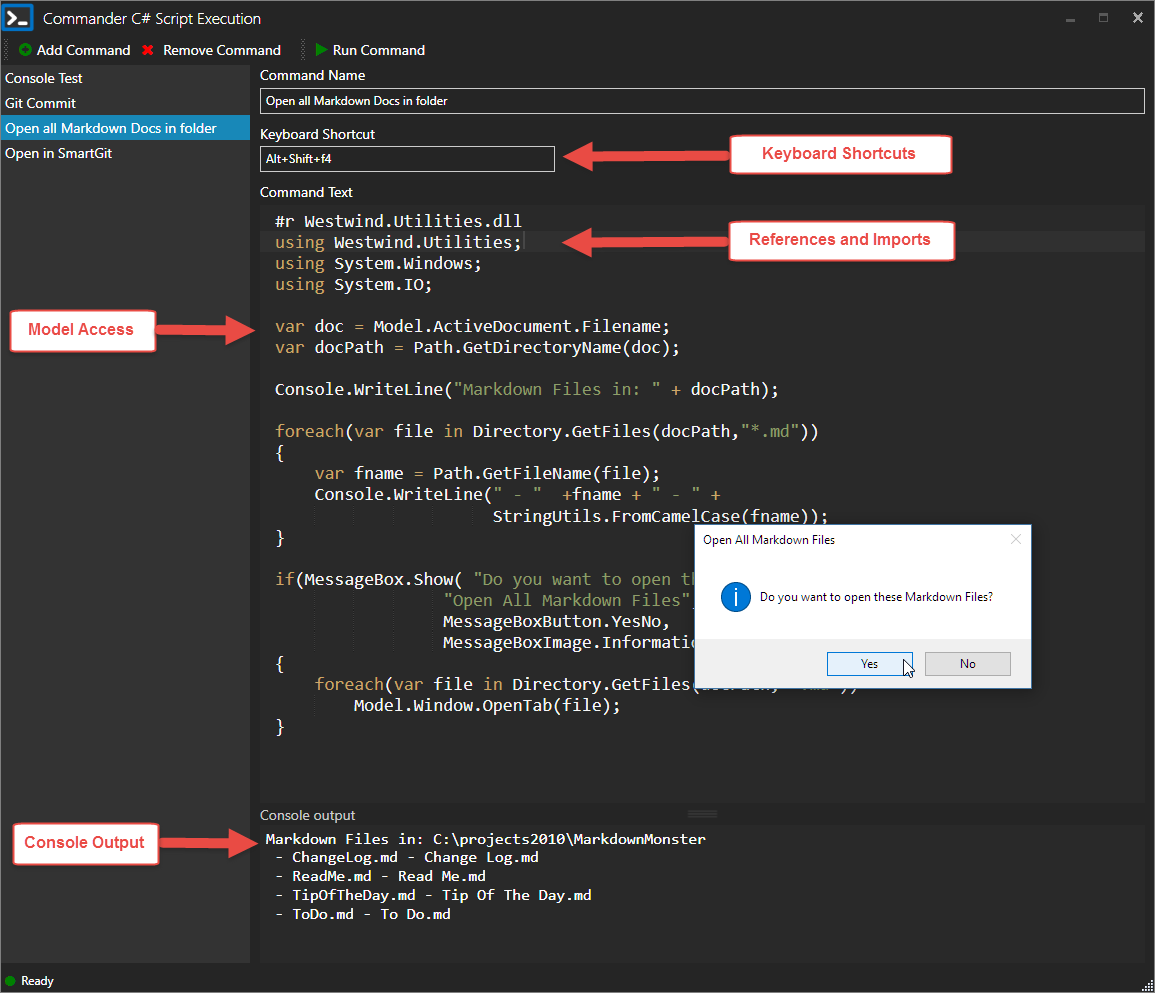
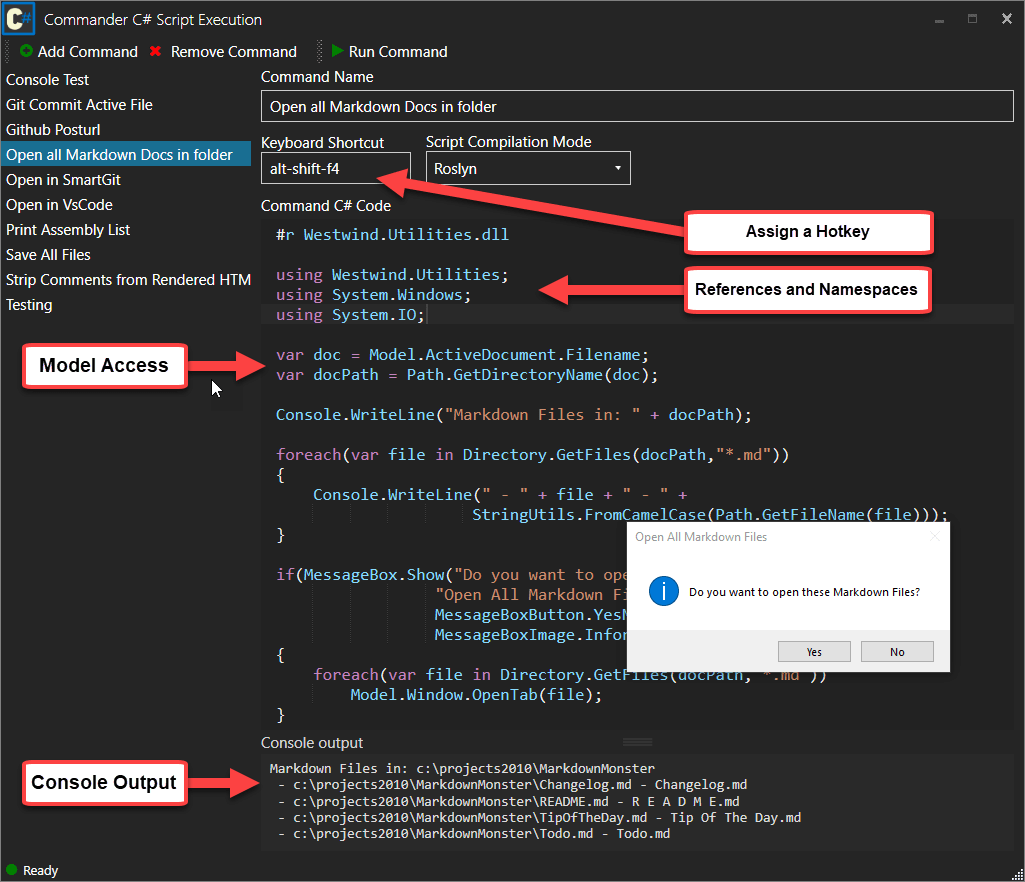
Update README.md

diff --git a/readme.md b/readme.md
@@ -4,36 +4,99 @@
 
 <img src="icon.png" Height="128"  />
 
-> #### Currently in Beta release 
+This addin allows you to script Markdown Monster via C# script code. It's an easy way to add quick automation features to Markdown Monster without creating a [full blown Markdown Monster .NET Addin](http://markdownmonster.west-wind.com/docs/_4ne0s0qoi.htm).
 
-This addin lets you extend Markdown Monster via custom C# scripts or by easily calling external executables that can be tied to a hotkey or can be executed via the Commander addin's user interface. Commander scripts can be thought of as mini addins that can be created without requiring the creation of a full blown addin using small snippets of C# Script code.
+![](CommanderAddin/screenshot.png)
+
+Some things you can do:
+
+* Access the current document
+* Modify the active or any other open document
+* Launch a new process 
+* Open documents or folders in an external Program
+* Load data from a database and embed it in a document
+* Open a Git Client in the right folder context
+* Open all related documents
+* Launch an image optimizer to optimize all images
+* Create pre-filled documents into the editor  
+(which you can also do with the [Snippets addin]())
+* etc.
+
+Using the Command Addin you can access the [Markdown Monster Application Model](http://markdownmonster.west-wind.com/docs/_5dv018sft.htm) (via `Model.AppModel`) to access many of the core Markdown Document and UI features that let you automate and act upon open or selected documents in the editor.
+
+You can tie a hot key to a script (may require a restart of the application) to make functionality more easily accessible as well.
 
 ### Features
 Commander has the following  useful features:
 
 * C# Scripting - full C# language access
-* Reference and Namespace imports
 * Access to Markdown Monster's Model
     * Access to Document
     * Access to Editor
-    * Access to Window and WPF UI
-* Console Output for Debugging
+    * Access to Main Window and the entire WPF UI
+* Console Output
+* Language Features
+    * Latest C# compiler features
+    * Compilation and Runtime Error reporting
+    * Source Code display
 
-### What can you do with it?
-Heck the sky's the limit, but here are some simple things I've done with it just in the last couple of weeks:
-
-* Open my Git Client in the right folder context
-* Open all related documents
-* Launch an image optimizer to optimize all images
-* Creating pre-filled documents into the editor  
-(which you can also do with the [Snippets addin]())
-* Shell out to any external application using `ExecuteProcess()`
 
 ### C# Script Execution
-Scripts are executed as C# code, using a dynamically generated method inside of an in-memory assembly. You can pretty much execute any .NET code as long as you can reference the required assemblies you need for your code to execute.
+Scripts are executed as C# code that is compiled dynamically as 'in memory' assemblies. The addin caches generated assemblies so that multiple executions don't keep generating new assemblies.
 
-### Assembly Reference and Namespace Dependencies
-In order to execute code, the generated assembly has to explicitly load referenced assemblies. The script parser used in this addin allows for custom syntax at the top of the script to specify assembly references and namespaces as follows:
+You can pretty much execute any .NET code as long as you can reference the required assemblies you need for your code to execute.
+
+#### Script Execution
+Scripts are turned into a C# class that is then compiled into an assembly and executed. Assemblies are created dynamically and cached once generated based on the code snippet's content (plus the compiler mode). If you execute the same script repeatedly, one assembly is generated and used repeatedly. Each new or modified snippet generates a new assembly.
+
+Scripts include default assemblies and namespaces, so most features that are used in Markdown Monster are already in scope and accessible without adding explicit `#r` assembly references or `using` statements.
+
+Scripts execute in the context of a class in the following format:
+
+```cs
+24.  public object ExecuteCode(params object[] parameters)
+25.  {dynamic Model = parameters[0];
+26.  var docFile = Model?.ActiveDocument?.Filedname;
+27.  if(docFile == null)
+28.      return false;
+29.  
+30.  var pf =  Environment.GetEnvironmentVariable("ProgramW6432");
+31.  var folder = Path.Combine(pf,"SmartGit\\bin");
+32.  var exe = Path.Combine(folder,"smartgit.exe");
+33.  
+34.  var pi = Process.Start(exe,"\"" + docFile + "\"");
+35.  if (pi != null)
+36.      Model.Window.ShowStatus("Smartgit started...",5000);
+37.  else
+38.      Model.Window.ShowStatus("Failed to load Smartgit...",5000);
+39.  
+40.  
+42.  return null;  // generated
+43.  }
+```
+
+The method is passed a `CommanderAddinModel` instance which exposes most of the common:
+
+* **[AppModel](http://markdownmonster.west-wind.com/docs/_5dv018sft.htm)**  
+Markdown Monster's Main Application Model that gives access to configuration, window, document, editor, addins and much more. A subset of the properties on this object are exposed in this AddinModel reference for easier access.
+* **[Window](http://markdownmonster.west-wind.com/docs/_5dv018t7x.htm)**  
+The main Markdown Monster UI Window which includes access to open tabs, the folder browser and more.
+* **[ActiveDocument](http://markdownmonster.west-wind.com/docs/_5dv018tmz.htm)**  
+The document in the active tab. Contains the content, filename, load and save operations etc.
+* **[ActiveEditor](http://markdownmonster.west-wind.com/docs/_5dv018twa.htm)**  
+provides access to the active editor instance, for manipulating the document's content in the editor.
+* **Window.FolderBrowser**  
+lets you access the open folder browser or open a new folder in the folder browser.
+
+
+
+> #### Early Exit via `return`
+> If you need to exit the script early using `return` make sure that return some value as the wrapper method signature requires. The code returns `return false` although the return value of the script is irrelevant and ignored. But some value has to be returned.
+>   
+> A return value is **not required** if you don't exit early as the wrapper method has a `return null` at the end.
+
+#### Assembly Reference and Namespace Dependencies
+In order to execute code, the generated assembly has to explicitly load referenced assemblies. The script parser used in this addin allows for custom syntax at the top of the script to specify assembly references and namespaces using the following sytnax:
 
 ```cs
 #r Westwind.Utilities.dll
@@ -43,10 +106,8 @@ using Westwind.Utilities
 System.Windows.MessageBox.Show("Got it!");
 ```
 
-### `#r <assemblyReference>`
-The `#r` directive is used to reference an assembly by filename. Note you don't have to specify a path as the addin only looks for assemblies in the Markdown Monster install path.
-
-This loads an assembly reference into the script - you can reference any GAC assembly or any assembly that is available through Markdown Monster's root or `Addins` folder. 
+##### `#r <assemblyPath>`
+The `#r` directive is used to reference an assembly by filename. Assemblies should be referenced as `.dll` file names and cannot contain a path. Assemblies referenced have to either be a GAC installed assembly or they must live in Markdown Monster's startup code to be found. 
 
 > #### No external Assemblies allowed
 > For security reasons, we don't allow execution of pathed assemblies. All assemblies should be referenced just by their .dll file name (ie. `mydll.dll`).
@@ -55,10 +116,23 @@ This loads an assembly reference into the script - you can reference any GAC ass
 >
 > If you need external assemblies in your Scripts or Snippets we recommend you create a folder below the Addins folder like `SupportAssemblies` and put your referenced assemblies there.. 
 
-### `using <namespace>`  
+##### `using <namespace>`  
 This allows adding namespace references to your scripts the same way you'd use a using statement in a typical .NET class. Make sure any Assemblies you need are loaded. The Command Addin pre-references many common references and namespaces.
 
-Both of these commands have to be specified at the top of the script text.
+Both of these commands have to be specified at the top of the script text as they are parsed out and added back when code is generated and compiled.
+
+#### Error Handling
+The Command Addin has support for capturing and displaying Compiler and Runtime errors in the Console Output of the interface.
+
+![](CommanderAddin/ErrorInConsole.png)
+
+Each script is generated into a self-contained CSharp class that is compiled into its own assembly and then loaded and executed from the generated in-memory assembly. 
+
+If there are source code errors that cause a compiler error, the Addin displays the compiler error messages along with the line number where errors occurred.
+
+Runtime errors capture the last Call Stack information and provide the last executing line of code that caused the error. This may not always represent the real source of the error since you are executing generated code, but often it does provide some insight into code generated.
+
+Both Compiler and Runtime errors also display the source code along with line numbers so you can co-relate compiler errors to specific lines in the source code:
 
 ### Simple Examples
 The following script in the figure retrieves the active document's filename, then shows a directory listing of Markdown Files in the same folder in the Console, and then asks if you want to open the listed files in the editor:
@@ -71,23 +145,55 @@ Here are a few more useful examples that you can cut and paste right into the Co
 Example demonstrates how to launch an external process and open a folder in a GIT client using the .NET `Process` class.
 
 ```cs
-// Open current Git Repo in SmartGit
-// with Repo and file pre-selected
-using System.IO;
-using System.Diagnostics;
+var docFile = Model?.ActiveDocument?.Filename;
+if(docFile == null)
+    return false;
 
-var docFile = Model.ActiveDocument.Filename;
-
-var pf86 = Environment.GetFolderPath(Environment.SpecialFolder.ProgramFilesX86);
-var folder = Path.Combine(pf86,"SmartGit\\bin");
+var pf =  Environment.GetEnvironmentVariable("ProgramW6432");
+var folder = Path.Combine(pf,"SmartGit\\bin");
 var exe = Path.Combine(folder,"smartgit.exe");
 
-var pi = Process.Start(exe,docFile);
+var pi = Process.Start(exe,"\"" + docFile + "\"");
 if (pi != null)
     Model.Window.ShowStatus("Smartgit started...",5000);
 else
     Model.Window.ShowStatus("Failed to load Smartgit...",5000);
 ```
+
+#### Open All Documents in a Folder in MM
+The following retrieves the active document's filename and based on that gets a directory listing for all other `.md` files and optionally opens them all in the editor:
+
+```cs
+#r Westwind.Utilities.dll
+
+using Westwind.Utilities;
+using System.Windows;
+using System.IO;
+
+var doc = Model.ActiveDocument.Filename;
+var docPath = Path.GetDirectoryName(doc);
+
+Console.WriteLine("Markdown Files in: " + docPath);
+
+foreach(var file in Directory.GetFiles(docPath,"*.md"))
+{
+    Console.WriteLine(" - " + file + " - " + 
+                     StringUtils.FromCamelCase(Path.GetFileName(file)));    
+}
+
+if(MessageBox.Show("Do you want to open these Markdown Files?",
+                 "Open All Markdown Files",
+                 MessageBoxButton.YesNo,
+                 MessageBoxImage.Information) == MessageBoxResult.Yes)
+{
+    foreach(var file in Directory.GetFiles(docPath,"*.md"))
+        Model.Window.OpenTab(file);
+}        
+```
+
+Note that the `Westwind.Utilities` assembly and namespace definitions are actually optional since they are automatically included in the default list of added assemblies and namespaces - they serve mainly for demonstration purposes.
+
+For security reasons you can load assemblies only from the GAC or from assemblies that are located in the startup folder of Markdown Monster.
 
 #### Commit Active File to Git Origin
 Demonstrates committing the current document to Git locally and then pushing changes to a Git host using the `ExecuteHelper()` function:
@@ -119,5 +225,45 @@ result = Model.ExecuteProcess(gitExe,"push --porcelain --progress --recurse-subm
 Console.WriteLine(result == 0 ? "Success" : "Nothing to push. Exit Code: " + result);
 ```
 
+#### Open Folder Browser File in VS Code
+Here's a command that opens the active FolderBrowser item in Visual Studio Code. It uses the FolderBrowser's `GetSelectedPathItem()` method to retrieve the Path item from and extracts the filename then tries to find VS Code to open the file
 
+```cs
+var folderBrowser = Model.Window?.FolderBrowser as FolderBrowerSidebar;
+
+string docFile = null;
+
+var item = folderBrowser.GetSelectedPathItem();
+docFile = item?.FullPath;
+
+if (string.IsNullOrEmpty(docFile) || docFile == ".." ||
+   (!File.Exists(docFile) && !Directory.Exists(docFile) ))
+{
+    docFile = Model?.ActiveDocument?.Filename;
+    if (docFile == null)
+        return false;
+}
+
+var exe = @"%localappdata%\Programs\Microsoft VS Code\Code.exe";
+exe = Environment.ExpandEnvironmentVariables(exe);
+
+var pi = Process.Start(exe,"\"" + docFile + "\"");
+if (pi != null)
+    Model.Window.ShowStatus($"VS Code  started with: {docFile}",5000);
+else
+    Model.Window.ShowError("Failed to start VS Code.");
+
+```
+
+#### Print an Assembly List
+This is a trivial example, but useful to track what assemblies and addins were loaded by Markdown Monster.
+
+```cs
+var assemblies = AppDomain.CurrentDomain.GetAssemblies();
+
+foreach(var assembly in assemblies)
+{
+	Console.WriteLine(assembly);
+}
+```
 
